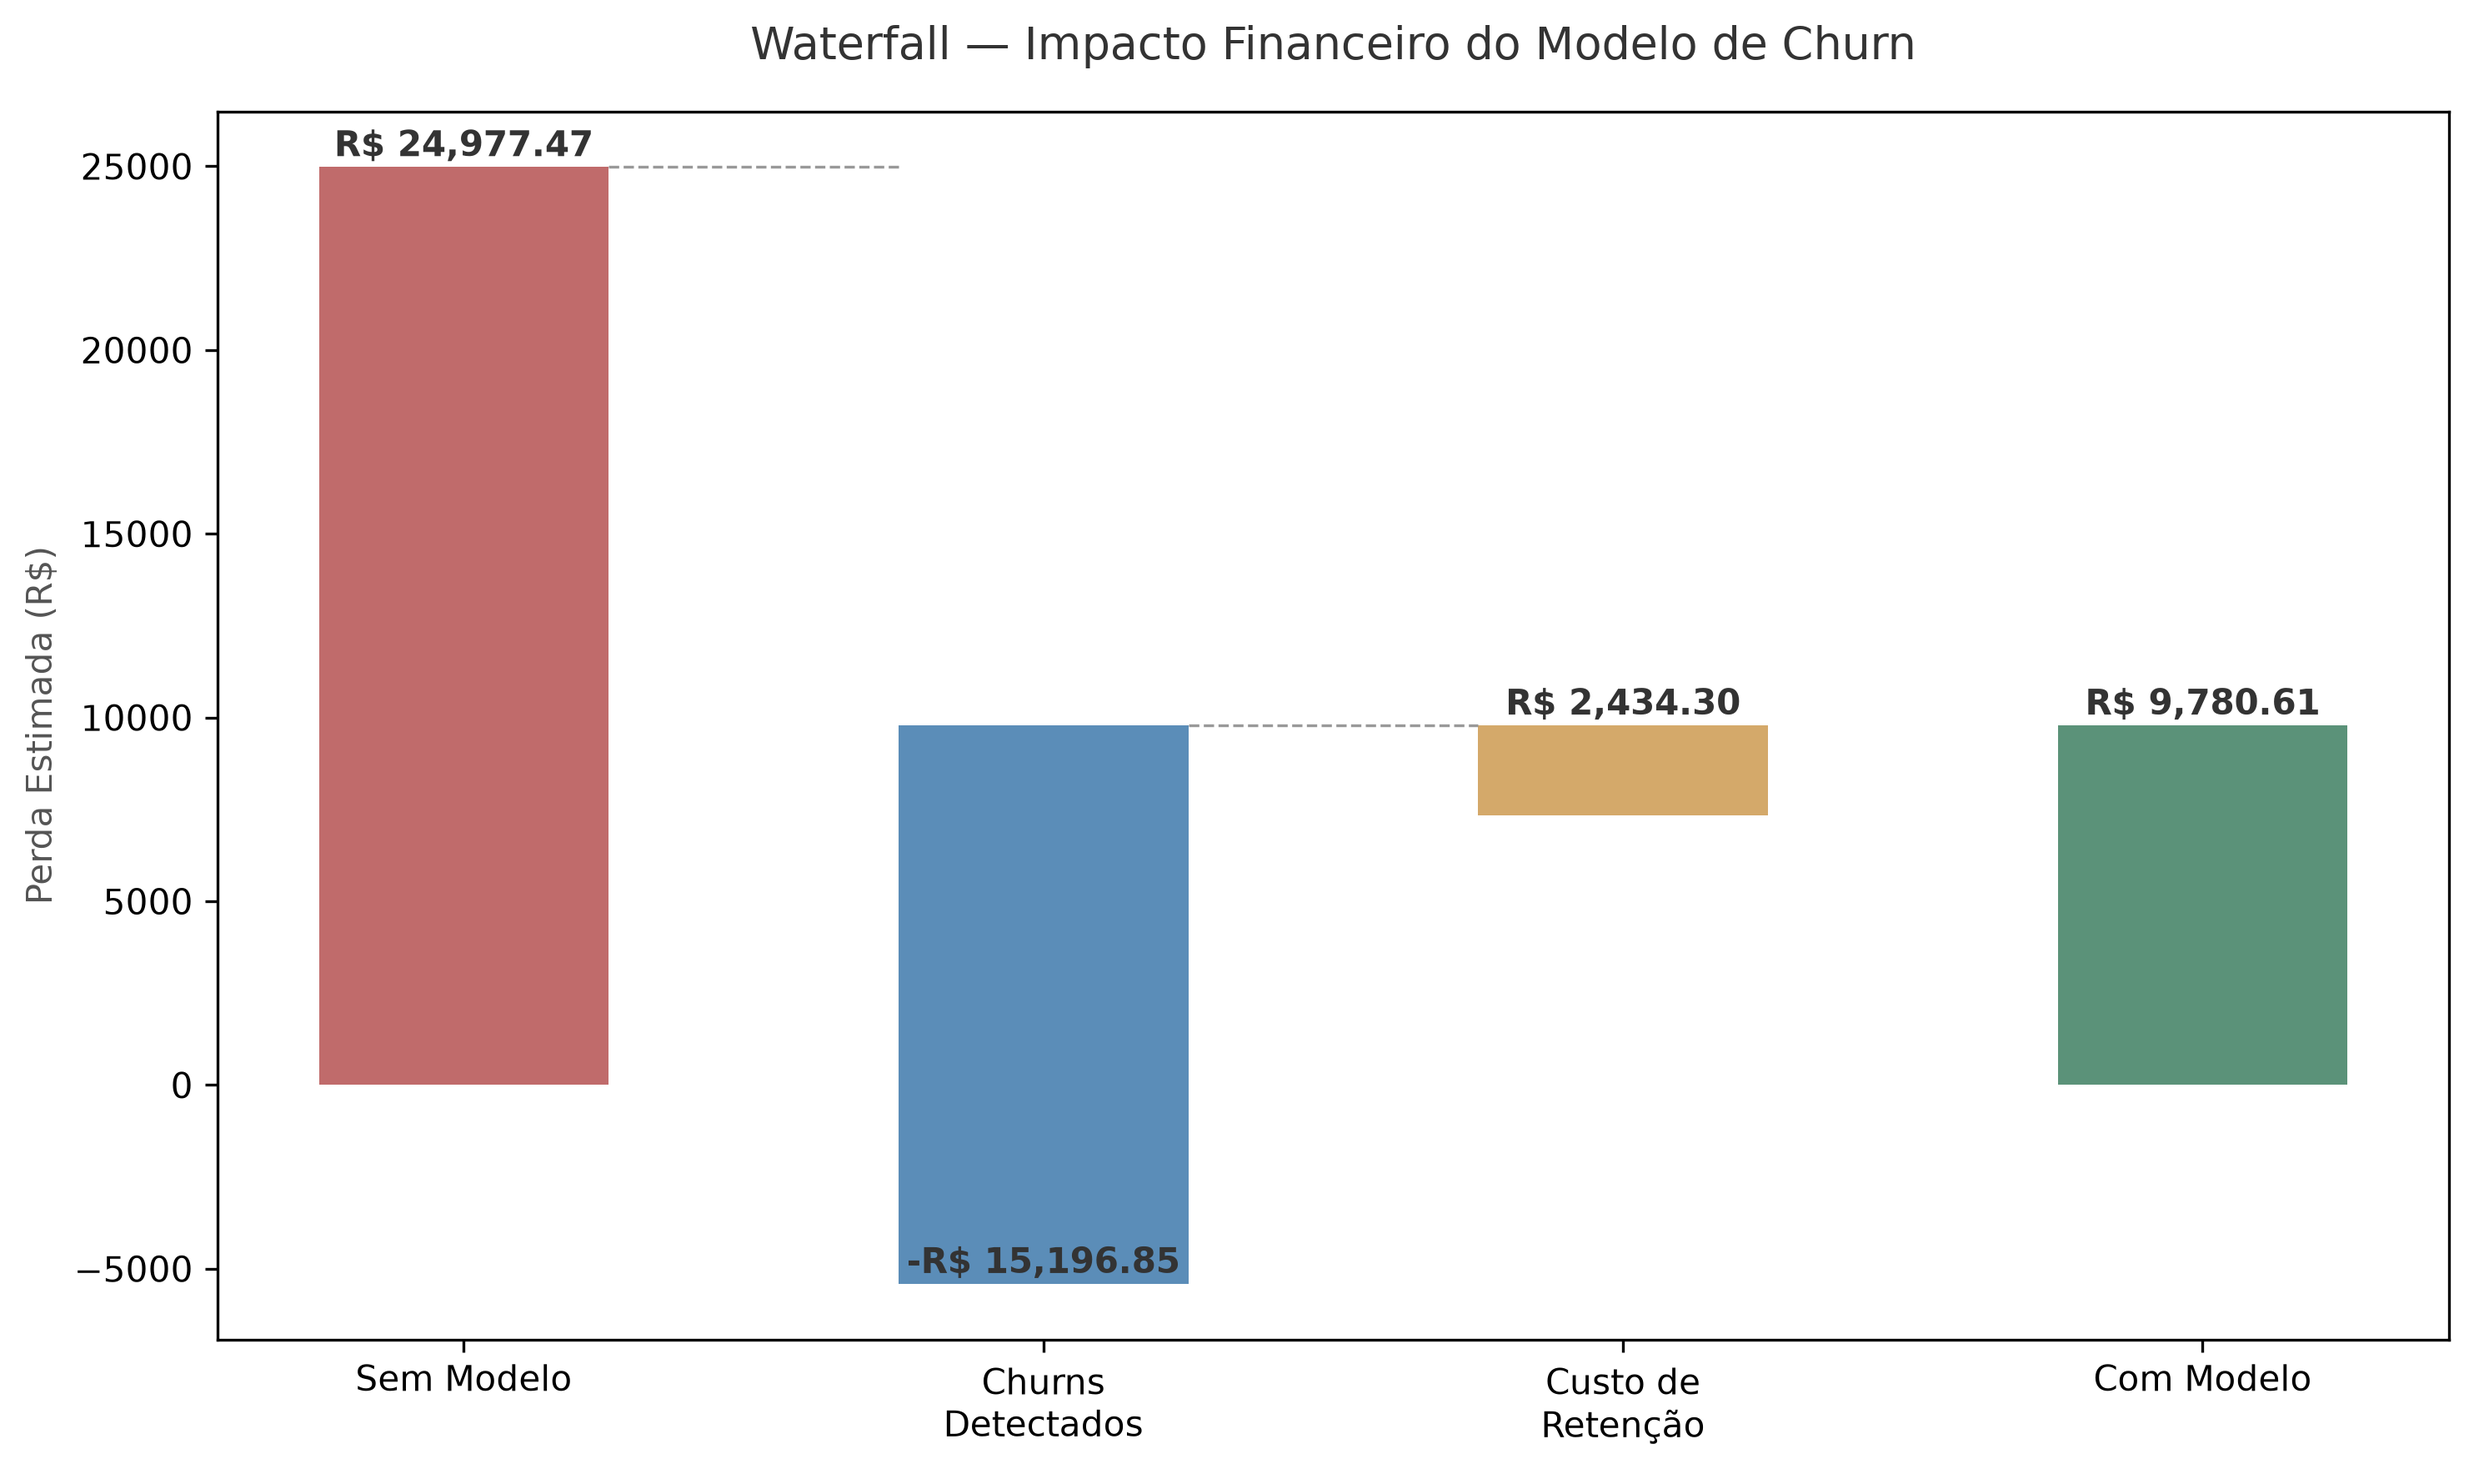
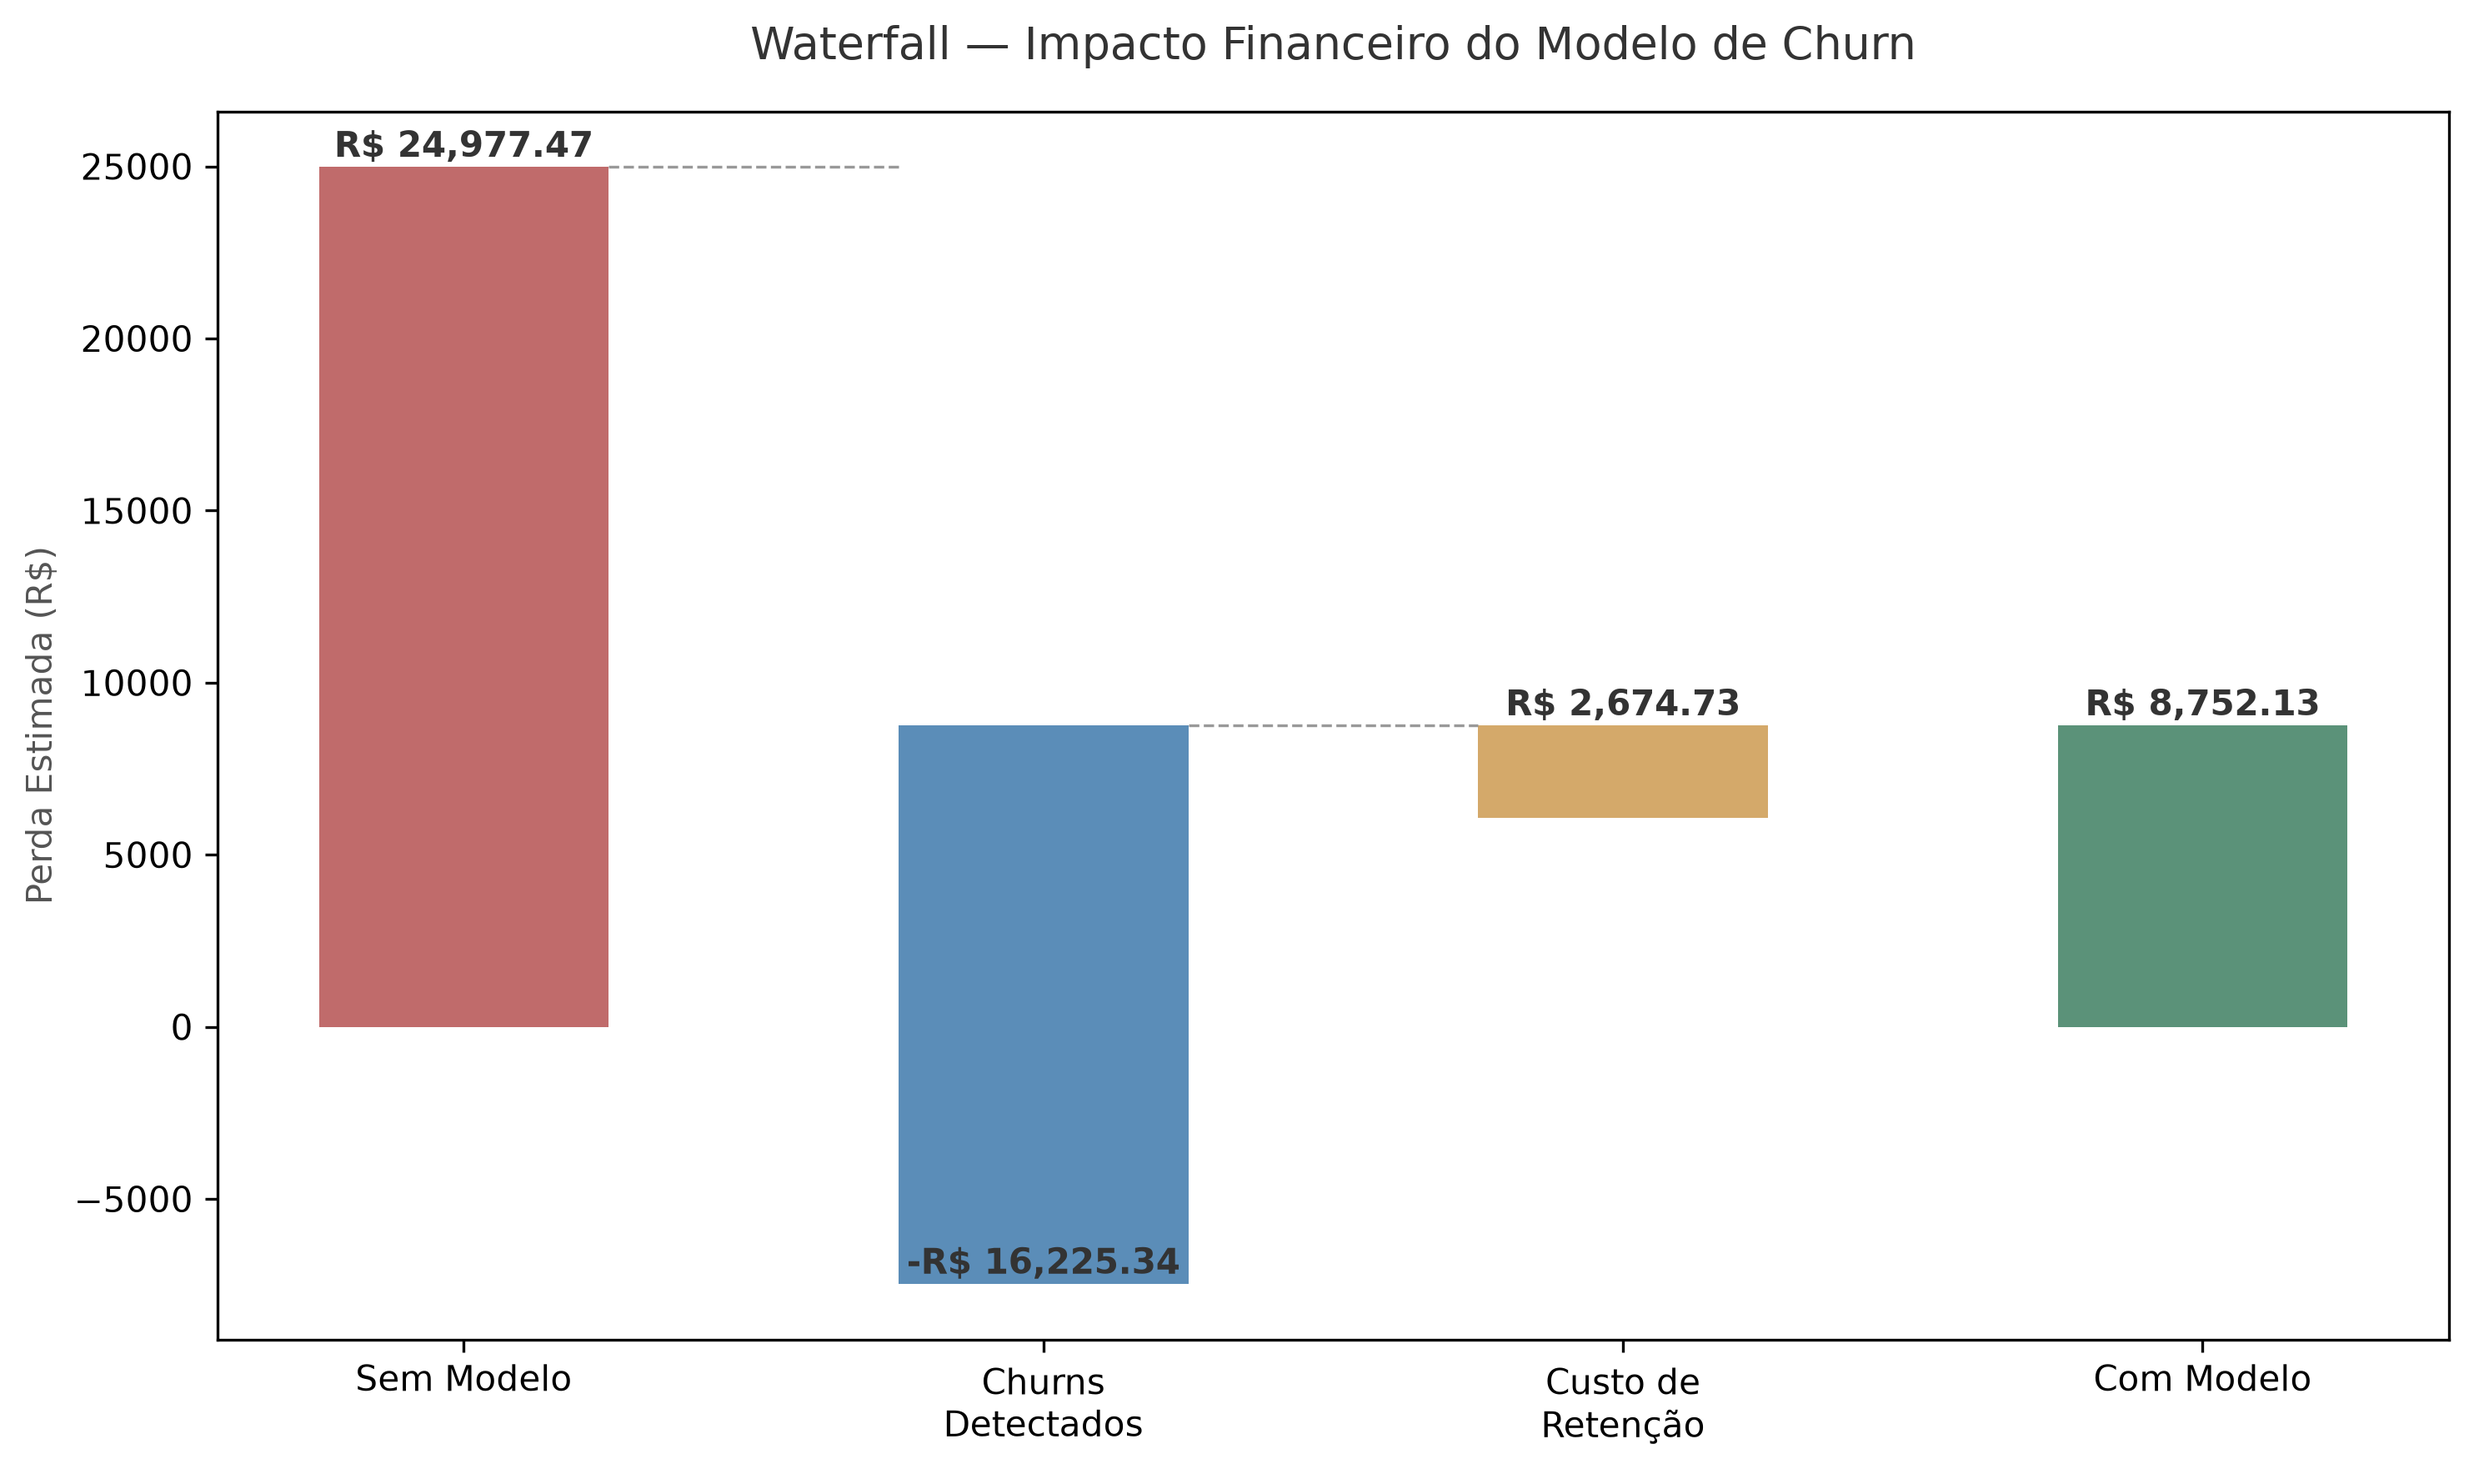
add pipeline.py - generates churn predictions in BigQuery

diff --git a/src/pipeline.py b/src/pipeline.py
@@ -1,0 +1,62 @@
+import pickle
+import pandas as pd
+from google.cloud import bigquery
+from dotenv import load_dotenv
+import os
+
+load_dotenv()
+
+BASE_DIR = os.path.dirname(os.path.dirname(os.path.abspath(__file__)))
+
+def get_client():
+    credentials_path = os.path.join(BASE_DIR, os.getenv("GOOGLE_APPLICATION_CREDENTIALS"))
+    project_id = os.getenv("PROJECT_ID")
+    return bigquery.Client.from_service_account_json(credentials_path, project=project_id)
+
+def load_model():
+    with open(os.path.join(BASE_DIR, 'models/modelo_churn.pkl'), 'rb') as f:
+        return pickle.load(f)
+
+def run_pipeline():
+    client = get_client()
+    modelo = load_model()
+
+    df = client.query("""
+        SELECT *
+        FROM `churn_dataset.customers_cleaned`
+    """).to_dataframe()
+
+    X = df.drop(columns=['customerID', 'Churn', 'tenure_group', 'TotalCharges', 'AvgMonthlySpend'])
+    
+    bool_cols = X.select_dtypes(include='boolean').columns
+    X[bool_cols] = X[bool_cols].astype(int)
+    
+    colunas_categoricas = X.select_dtypes(include='str').columns.tolist()
+    X = pd.get_dummies(X, columns=colunas_categoricas, drop_first=True)
+    X = X.astype(float)
+
+    probabilidades = modelo.predict_proba(X)[:, 1]
+    
+    resultado = pd.DataFrame({
+        'customerID': df['customerID'],
+        'probabilidade_churn': probabilidades.round(4),
+        'risco': ['Alto' if p >= 0.7 else 'Médio' if p >= 0.4 else 'Baixo' for p in probabilidades],
+        'MonthlyCharges': df['MonthlyCharges'],
+        'Contract': df['Contract'],
+        'tenure': df['tenure'],
+        'InternetService': df['InternetService'],
+        'churn_real': df['Churn'].astype(int)
+    })
+
+    job_config = bigquery.LoadJobConfig(write_disposition='WRITE_TRUNCATE')
+    client.load_table_from_dataframe(
+        resultado,
+        'churn_dataset.churn_predictions',
+        job_config=job_config
+    ).result()
+
+    print(f'Pipeline executado com sucesso! {len(resultado)} clientes processados.')
+
+if __name__ == '__main__':
+    print("Iniciando pipeline...")
+    run_pipeline()
